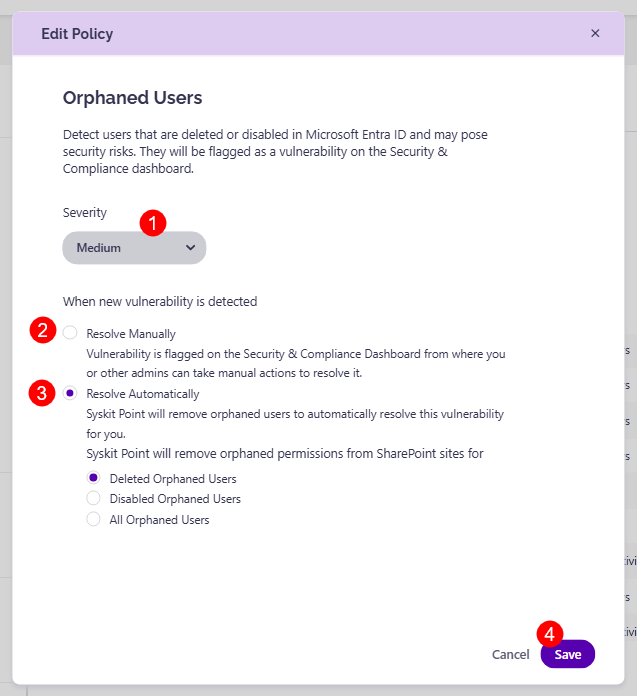
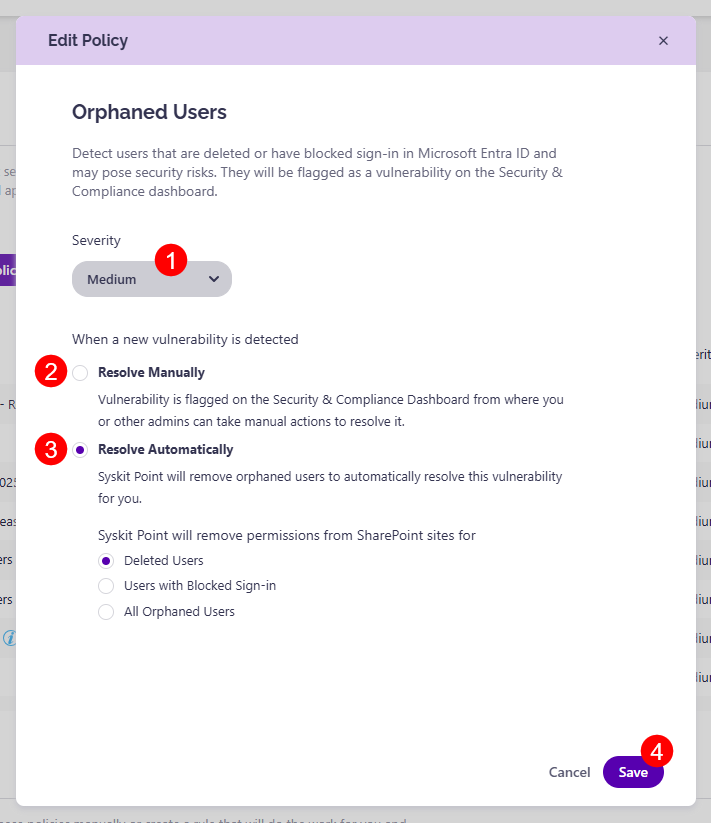
policy dialog ss and text update

diff --git a/docs/governance-and-automation/automated-workflows/orphaned-users-admin.md b/docs/governance-and-automation/automated-workflows/orphaned-users-admin.md
@@ -23,10 +23,15 @@ The **Edit Policy** dialog opens, where you can:
   * **Resolve Manually (2)** - selecting this option means the vulnerability is flagged on the Security & Compliance Dashboard, where you or other admins can take manual actions to resolve it.
   * **Resolve Automatically (3)** - selecting this option means Syskit Point automatically removes orphaned users to resolve the vulnerability when it is detected.
   * You can select which type of orphaned users should be automatically deleted by choosing one of three options:
-    * **Deleted Orphaned Users** - selecting this removes all deleted orphaned users from your workspaces.
-    * **Disabled Orphaned Users** - selecting this removes all disabled orphaned users from your workspaces.
-    * **All Orphaned Users** - selecting this removes both disabled and deleted orphaned users from your workspaces.
+    * **Deleted Users** - selecting this removes all deleted users from your workspaces.
+    * **Users with Blocked Sign-in** - selecting this removes all blocked users from your workspaces.
+    * **All Orphaned Users** - selecting this removes both blocked and deleted users from your workspaces.
 
 Once you've selected the options that best suit your needs for this policy, **click the Save button (4)** to store your preferences.
 
 ![Blocked Users with Assigned Licenses - Severity](../../../static/img/orphaned-users-admin-policy.png)
+
+:::info
+**Policy vulnerability is not detected for OneDrive workspaces where the Primary admin is blocked or deleted**, as this is expected during user offboarding and similar scenarios.
+**Primary admins cannot be deleted from a workspace** automatically. This requires manual intervention and replacing the deleted or blocked Primary admin with an active user. 
+:::
